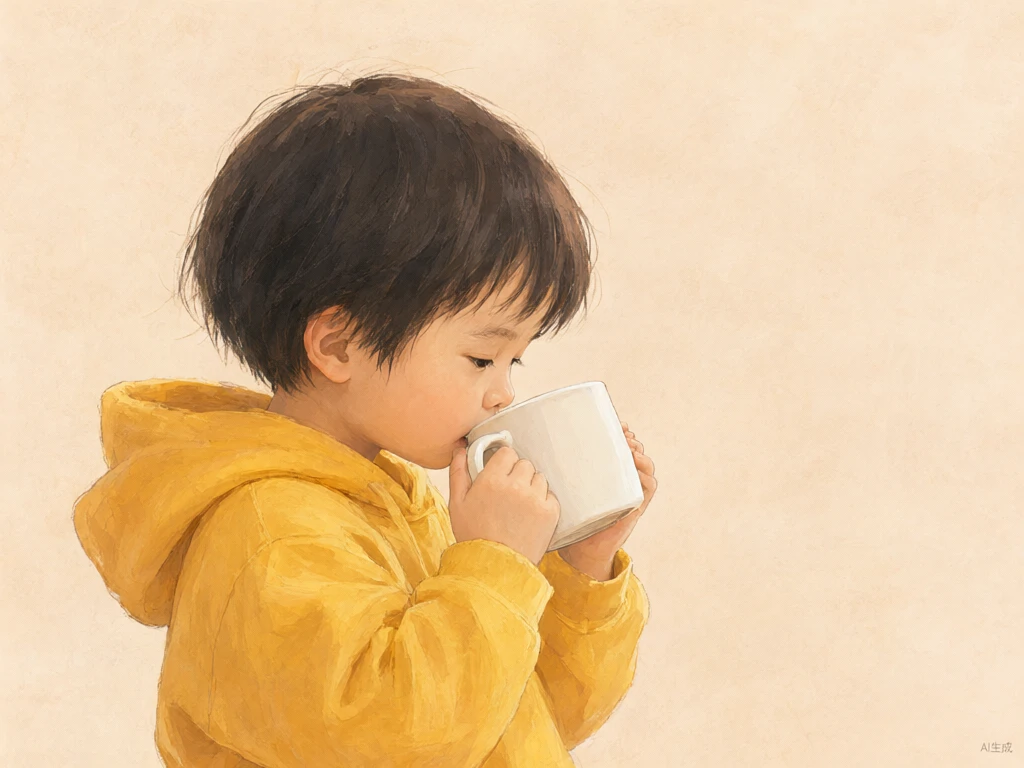
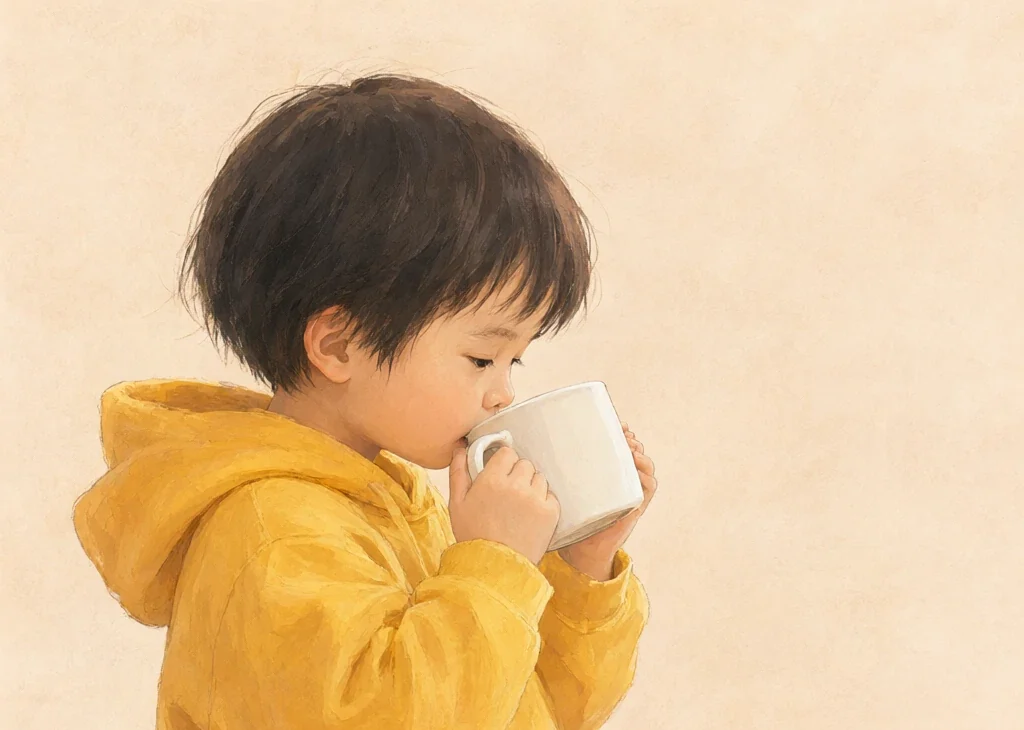
shots: 补齐 injection/haircut/kindergarten 18 张，统一裁掉底部水印；新增 tools/crop_watermark.py

diff --git a/tools/crop_watermark.py b/tools/crop_watermark.py
@@ -1,0 +1,39 @@
+"""裁掉 Qoder 生图烘焙在底部的水印条（"AI 生成"）。
+
+用法：  python tools/crop_watermark.py [--bottom 38]
+说明：  24 张统一裁，保证一致性；原图会先备份到仓库外的 _shots_orig/。
+        裁完尺寸 1024x730，渲染时按 4:3 容器 cover 裁切即可。
+"""
+
+import os
+import shutil
+import sys
+
+from PIL import Image
+
+HERE = os.path.dirname(os.path.abspath(__file__))
+ROOT = os.path.join(HERE, "..", "shots")
+BACKUP = os.path.join(HERE, "..", "_shots_orig")
+SCENES = ["medication", "injection", "haircut", "kindergarten"]
+
+bottom = 38
+if "--bottom" in sys.argv:
+    bottom = int(sys.argv[sys.argv.index("--bottom") + 1])
+
+total = 0
+for scene in SCENES:
+    os.makedirs(os.path.join(BACKUP, scene), exist_ok=True)
+    for i in range(1, 7):
+        path = os.path.join(ROOT, scene, "%02d.webp" % i)
+        if not os.path.exists(path):
+            print("MISSING", path)
+            continue
+        shutil.copy2(path, os.path.join(BACKUP, scene, "%02d.webp" % i))
+        im = Image.open(path).convert("RGB")
+        w, h = im.size
+        im2 = im.crop((0, 0, w, h - bottom))
+        im2.save(path, "WEBP", quality=86, method=6)
+        total += 1
+        print("%s/%02d.webp  %dx%d -> %dx%d  %dKB" % (
+            scene, i, w, h, im2.size[0], im2.size[1], os.path.getsize(path) // 1024))
+print("DONE", total)
